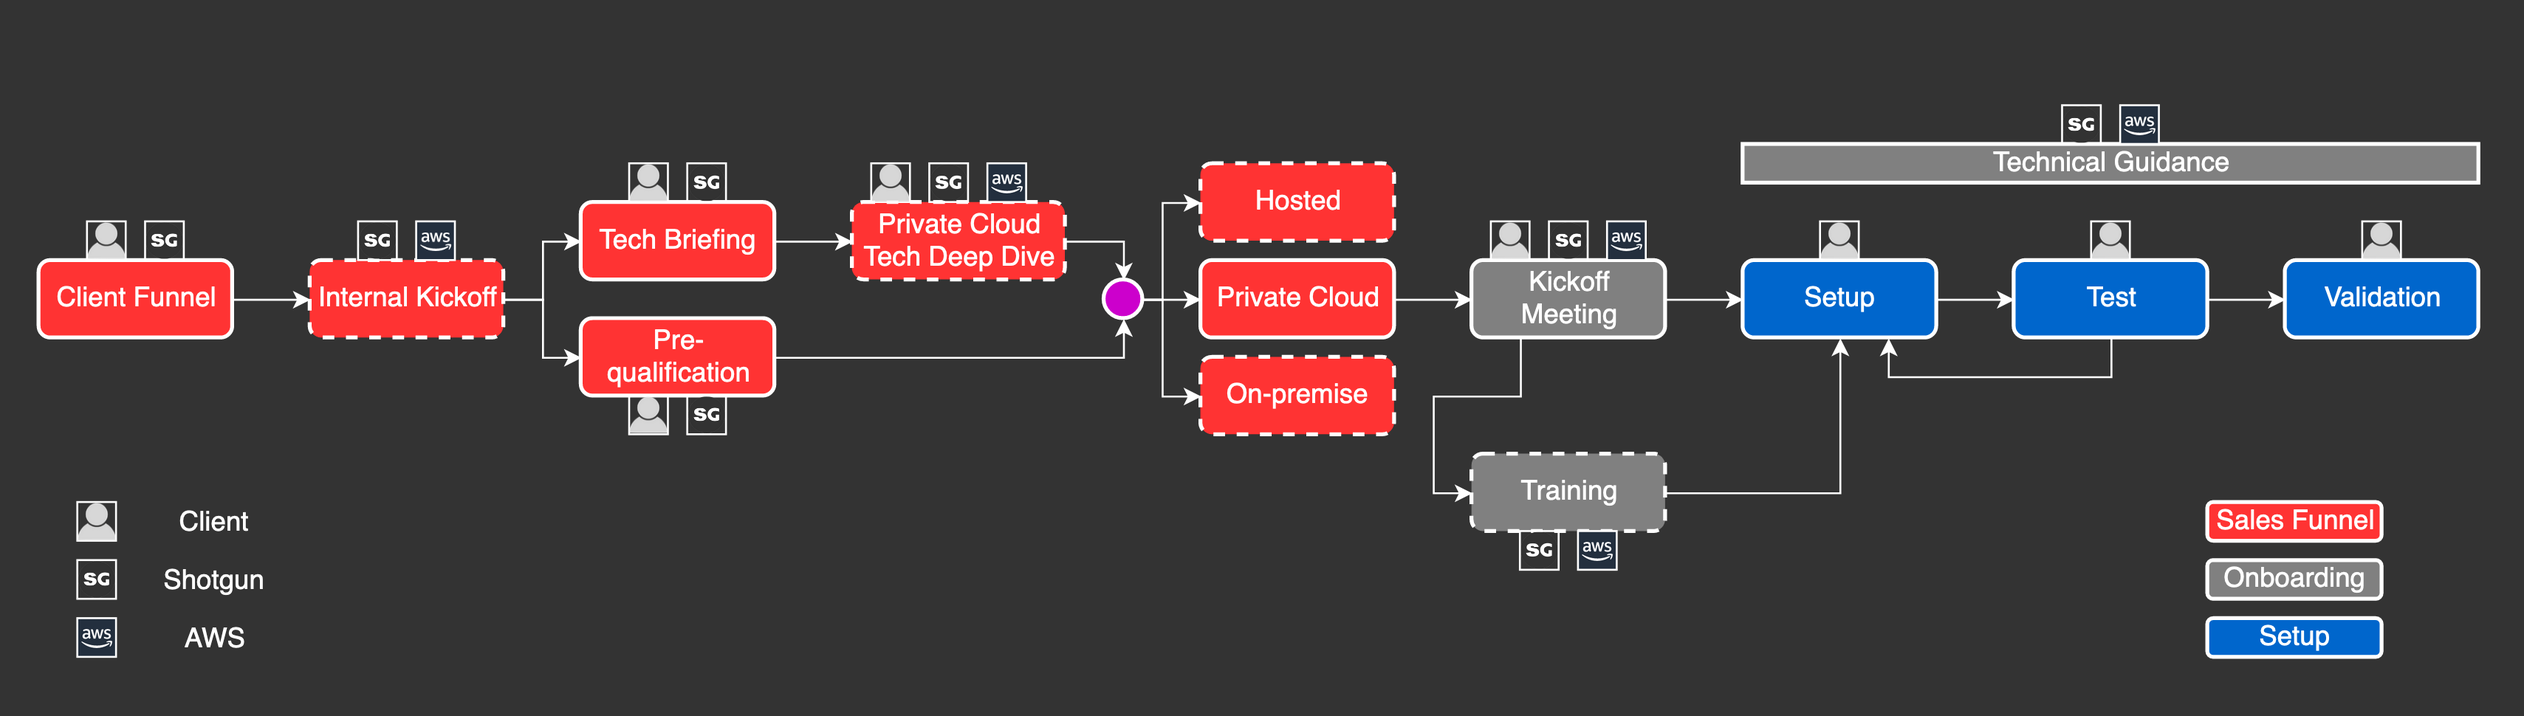
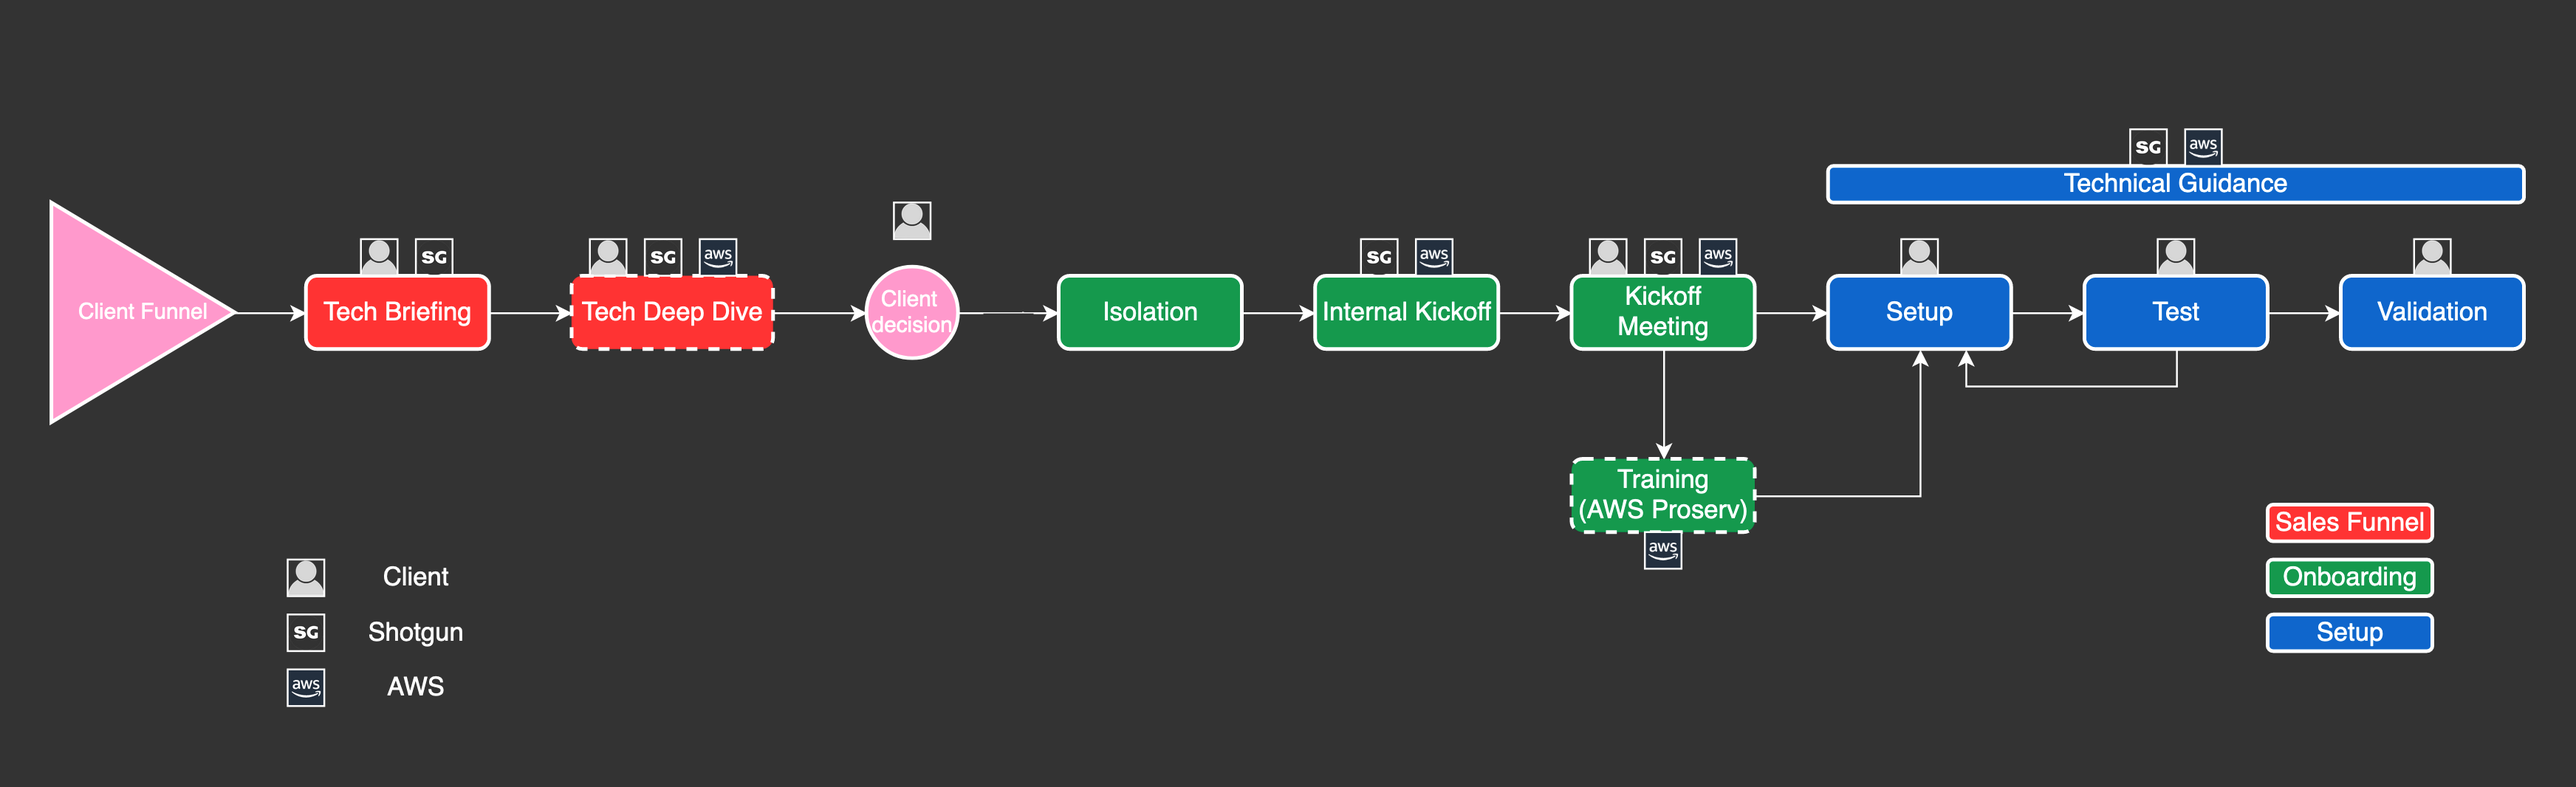
Modified setup overview.

diff --git a/docs/en/trusted-solutions/tier1/setup/setup.md b/docs/en/trusted-solutions/tier1/setup/setup.md
@@ -7,12 +7,48 @@ lang: en
 
 # Shotgun Isolation Feature Set - Setup
 
+Isolation the isolation features are independent of each other, and can be activated independently of each other. Media replication have as pre-requisite for Media Isolation to be implemented.
+
+The setup process will depend on which feature you want to activate for your site. 
+
 ## In This Section
 <!-- When updating this, also update tier1.md -->
-* [Setup Workflow](./workflow.md)
+* [Planning your Setup](./planning.md)
 * [Migration Test Site](./shotgun_poc_site.md)
 * [Media Isolation](./s3_bucket.md)
 * [Media Traffic Isolation](./media_segregation.md)
 * [Web Traffic Isolation](./traffic_segregation.md)
 * [Isolation Fine Tuning](./tuning.md)
 * [S3 Replication](./s3_replication.md)
+
+# Setup Process
+
+![tier1-setup-process](../images/tier1-setup-process.png)
+
+## [Planning your Setup](./planning.md)
+
+The first step consist in planning your setup, choosing the feature you need and get the required security/legal approval from your team to get started with the Isolation feature set.
+
+## [Migration Test Site](./shotgun_poc_site.md)
+
+To help you setting up the Isolation features without breaking your production environment and to helping smooting the migration, Shotgun propose to use a test site on which to test your setup before applying the result to production.
+
+## [Media Isolation](./s3_bucket.md)
+
+This feature allow you to use a S3 Bucket owned by your studio to store media.
+
+## [Media Traffic Isolation](./media_segregation.md)
+
+This feature allows for private routing of the media through the AWS Backbone and your studio network, isolating the media traffic from the public internet.
+
+## [Web Traffic Isolation](./traffic_segregation.md)
+
+This feature isolate the web traffic on AWS Backbone and your studio network, isolating the traffic from the public internet.
+
+## [S3 Replication](./s3_replication.md)
+
+This feature allows the media to be replicated between AWS Regions, for faster access in your world wide studios. Media Isolation is required.
+
+## [Fine Tuning](./tuning.md)
+
+Once the isolation features you need are activated, make sure that you everything is properly configured for security and cost-efficiency by reviewing this fine tuning guide.

diff --git a/docs/en/trusted-solutions/tier1.md b/docs/en/trusted-solutions/tier1.md
@@ -12,21 +12,21 @@ Shotgun isolation feature set is an hybrid solution that satisfies strict securi
 
 ### Getting Started
 <!-- When updating this, also update getting_started/getting_started.md -->
-* [About the Isolation Feature Set](./tier1/getting_started/about.md)
+* [About Isolation](./tier1/getting_started/about.md)
 * [Client Responsibilities](./tier1/getting_started/responsibilities.md)
 * [Onboarding Process](./tier1/getting_started/onboarding.md)
-* [Planning Your Setup](./tier1/getting_started/planning.md)
+* [Planning your Setup](./tier1/setup/planning.md)
 
 
 ### Setup
 <!-- When updating this, also update setup/setup.md -->
-* [Setup Workflow](./tier1/setup/workflow.md)
+* [Setup Overview](./tier1/setup/setup.md)
 * [Migration Test Site](./tier1/setup/shotgun_poc_site.md)
 * [Media Isolation](./tier1/setup/s3_bucket.md)
 * [Media Traffic Isolation](./tier1/setup/media_segregation.md)
 * [Web Traffic Isolation](./tier1/setup/traffic_segregation.md)
-* [Isolation Fine Tuning](./tier1/setup/tuning.md)
 * [S3 Replication](./tier1/setup/s3_replication.md)
+* [Isolation Fine Tuning](./tier1/setup/tuning.md)
 
 ### AWS Knowledge
 <!-- When updating this, also update knowledge/knowledge.md -->

diff --git a/docs/en/trusted-solutions/tier1/getting_started/onboarding.md b/docs/en/trusted-solutions/tier1/getting_started/onboarding.md
@@ -21,10 +21,6 @@ During the onboarding process, you'll have direct access to Autodesk and AWS Lea
 
 **Tech Deep Dive:**  OPTIONAL. Deeper technical dive into isolation features. This meeting can be combined with the Tech Briefing.
 
-**Pre-qualification:** Qualification, from a technical point of view. Determine what the implications will be of choosing one offering over another.
-
-**Offering Selection:** Here, you will select the offering that best suits you, under Tech Sales guidance.
-
 **Kickoff Meeting:**	AWS and Shotgun Leaders review the setup process with the you.
 
 **Setup / Test / Validation:**	Iterative installation process where you connect your AWS resources to Shotgun, and activate the isolation features.

diff --git a/docs/en/trusted-solutions/tier1/setup/shotgun_poc_site.md b/docs/en/trusted-solutions/tier1/setup/shotgun_poc_site.md
@@ -8,3 +8,5 @@ lang: en
 # Shotgun Migration Test Site
 
 The Shotgun team will create a temporary site to be used as a Proof of Concept for your Shotgun Isolation deployment. Upon the successful completion of the setup process, your existing Shotgun site can be migrated to your Shotgun Isolation environment.
+
+If your Migration Test Site has not been created yet, please reach out to our Support team through your Zendesk ticket or your dedicated on-boarding Slack Channel.

diff --git a/docs/en/trusted-solutions/tier1/getting_started/getting_started.md b/docs/en/trusted-solutions/tier1/getting_started/getting_started.md
@@ -12,4 +12,4 @@ lang: en
 * [About the Isolation Feature Set](./about.md)
 * [Client Responsibilities](./responsibilities.md)
 * [Onboarding Process](./onboarding.md)
-* [Planning Your Setup](./planning.md)
+* [Planning Your Setup](../setup/setup.md)

diff --git a/docs/en/trusted-solutions/tier1/setup/s3_replication.md b/docs/en/trusted-solutions/tier1/setup/s3_replication.md
@@ -5,7 +5,7 @@ pagename: tier1-setup-s3_replication
 lang: en
 ---
 
-# Shotgun S3 Replication Support (BETA)
+# Shotgun S3 Replication Support
 
 ## Description
 
